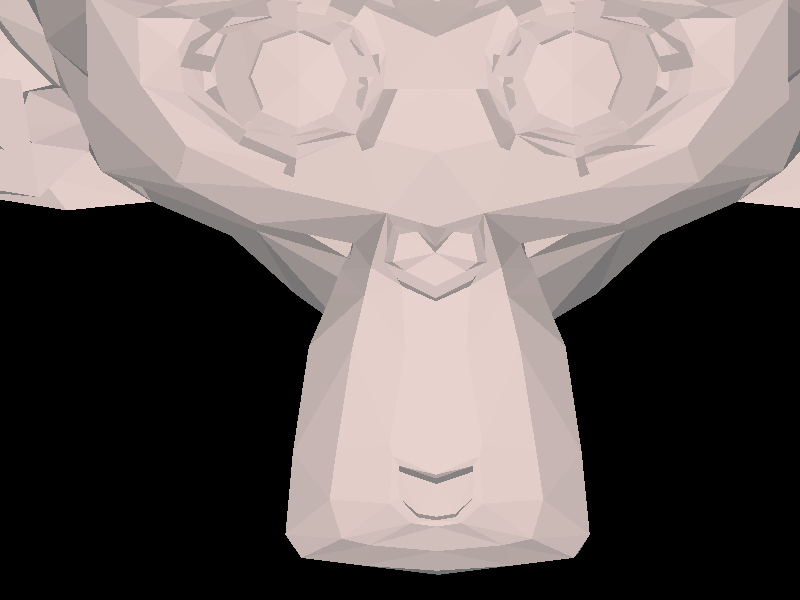
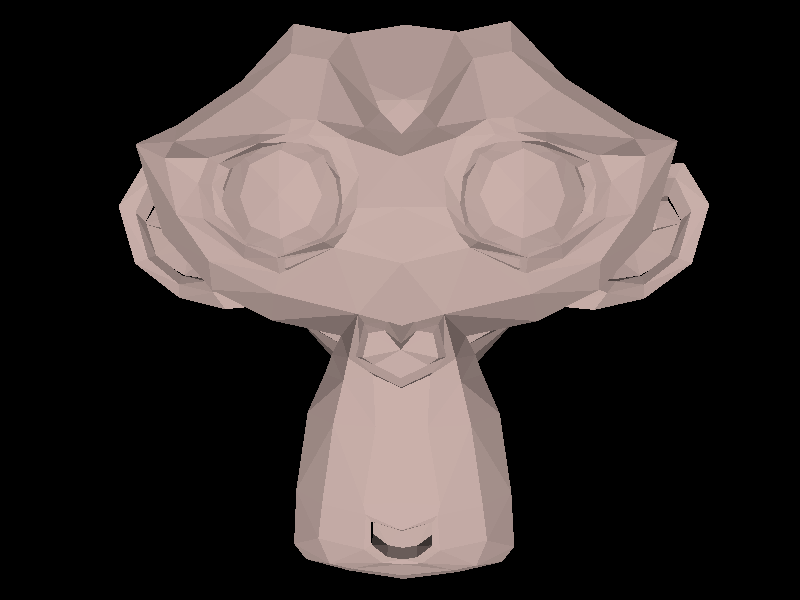
[bugfix]:修复bvh没有取最近点问题

diff --git a/Star/Camera.cpp b/Star/Camera.cpp
@@ -60,6 +60,16 @@ void Camera::reSize(int w, int h)
 
 bool Camera::GenerateRay(float s, float t, Ray& r)
 {
+	glm::mat4 viewProjectionMatrix = mProj * mView;
+	glm::vec3 nearPoint = unProject(glm::vec4(0,0,mWidth,mHeight),glm::vec2(s,t),0.0,viewProjectionMatrix);
+	glm::vec3 farPoint = unProject(glm::vec4(0, 0, mWidth, mHeight), glm::vec2(s, t), 1.0, viewProjectionMatrix);;
+	glm::vec3 dir = farPoint - nearPoint;
+	glm::normalize(dir);
+	r.mOrig = nearPoint;
+	r.mDir = dir;
+	r.mMin = GMath::Epsilon;
+	r.mMax = GMath::Infinity;
+	/*
 	glm::vec3 ScreenCoord;
 	ScreenCoord.x = (2 * s) / (float)mWidth - 1.0;
 	ScreenCoord.y = (2 * t) / (float)mHeight - 1.0;
@@ -69,6 +79,6 @@ bool Camera::GenerateRay(float s, float t, Ray& r)
 	r.mDir = TransformVector(ScreenCoord, mScreenToWorld);
 	r.mMin = GMath::Epsilon;
 	r.mMax = GMath::Infinity;
-
+	*/
 	return true;
 }

diff --git a/Star/Triangle.cpp b/Star/Triangle.cpp
@@ -1,5 +1,5 @@
 #include "Triangle.h"
-
+#include "DebugDraw.h"
 
 Triangle::Triangle(std::shared_ptr<TriangleMesh> mesh, int triangleNumber, glm::mat4 objectToWorld)
 {
@@ -69,9 +69,12 @@ bool Triangle::intersect(Ray & r, Intersection & in)
 
 	if (t > r.mMin && t < r.mMax)
 	{
-		in.mDistance = t;
-		in.mPos = r.pointAt(t);
-		in.mNormal = glm::normalize(TransformNormal(glm::cross(e1, e2), mObjectToWorld));
+		if (t < in.mDistance)
+		{
+			in.mDistance = t;
+			in.mPos = r.pointAt(t);
+			in.mNormal = glm::normalize(TransformNormal(glm::cross(e1, e2), mObjectToWorld));
+		}
 		return true;
 	}
 	return false;

diff --git a/Star/BVH.h b/Star/BVH.h
@@ -91,7 +91,7 @@ public:
 			}
 			else
 			{
-				DebugDraw::instance().addBox(&node->bound.mMin[0], &node->bound.mMax[0],&glm::vec4(0.1,0.1,1,1)[0]);
+				//DebugDraw::instance().addBox(&node->bound.mMin[0], &node->bound.mMax[0],&glm::vec4(0.1,0.1,1,1)[0]);
 			}
 		}
 	}

diff --git a/Star/Intersection.h b/Star/Intersection.h
@@ -7,5 +7,5 @@ struct Intersection
 	Primitive* mPrimitive;
 	glm::vec3 mPos;
 	glm::vec3 mNormal;
-	float mDistance;
+	float mDistance = GMath::Infinity;
 };
